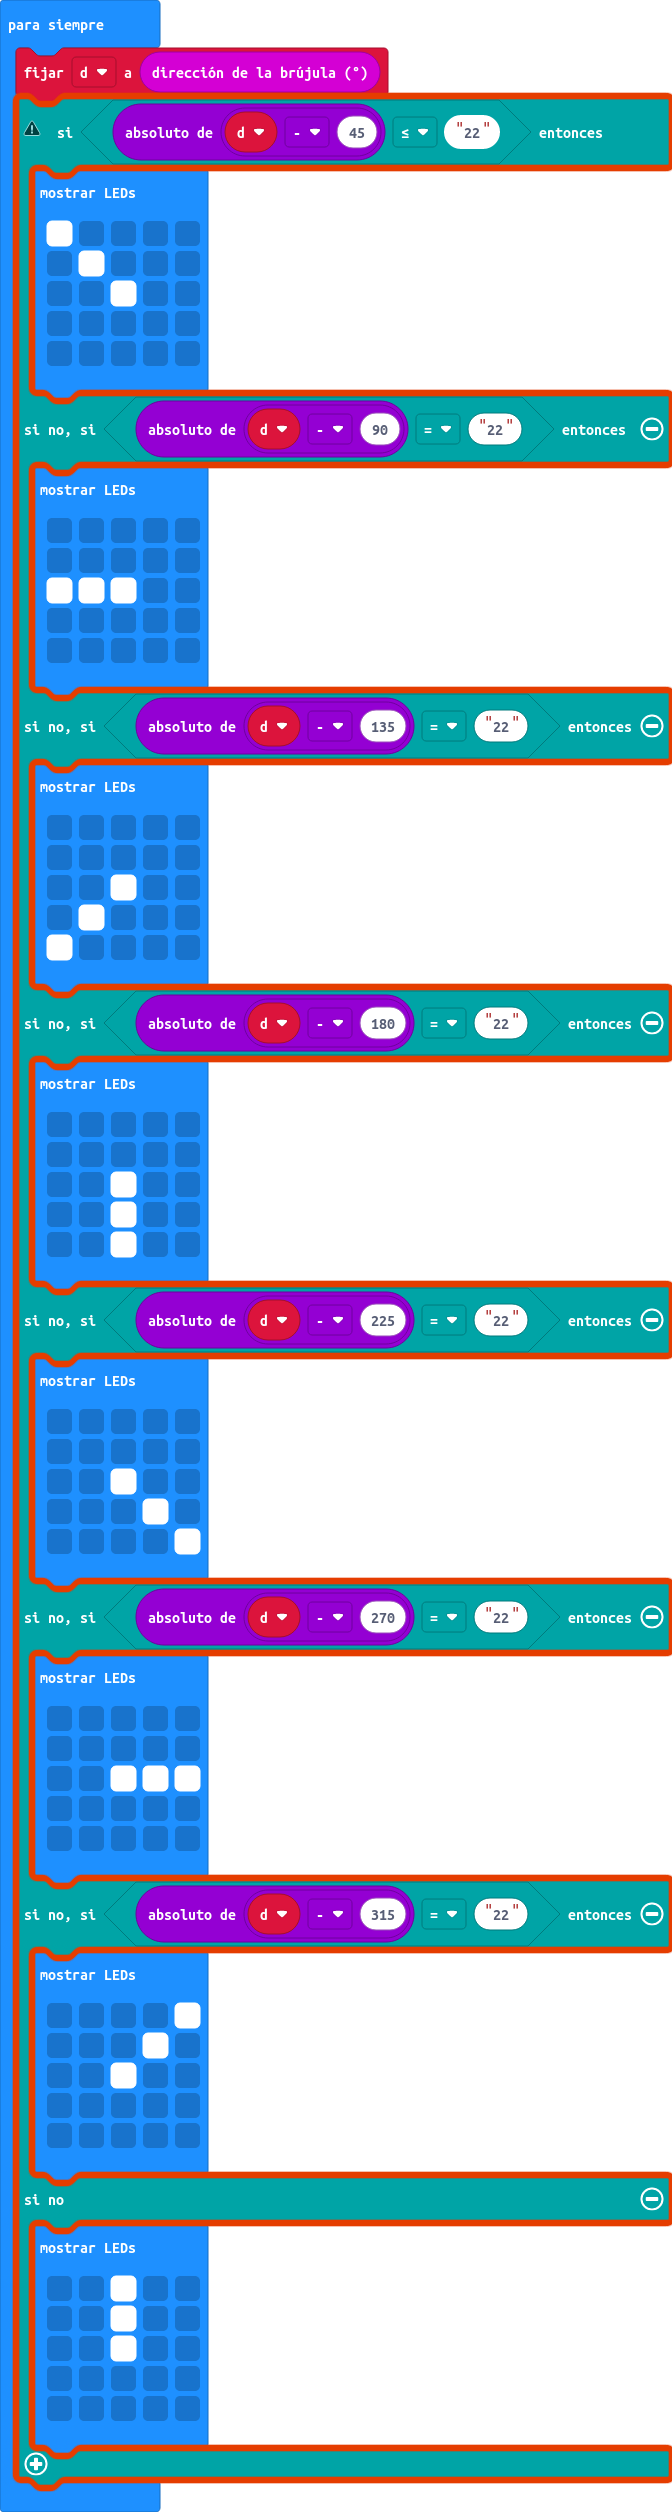
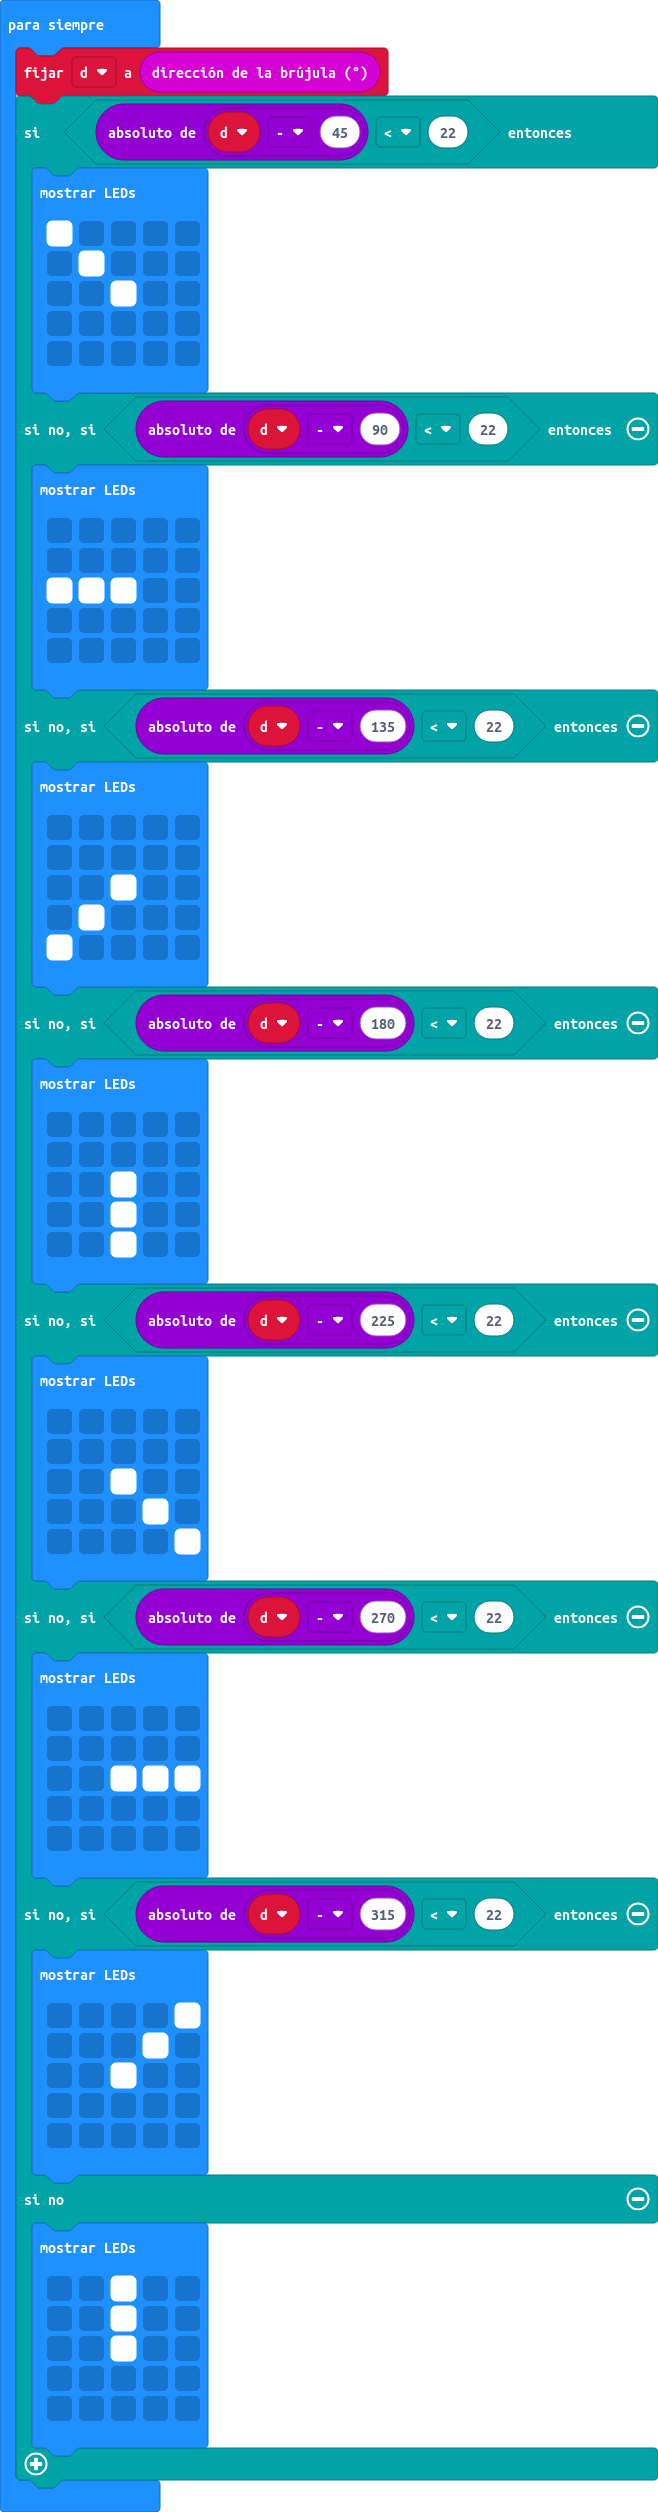
Actualizar main.blocks, main.ts

Changed region(s): [[0.0, 0.0, 1.0, 1.0]]

diff --git a/main.ts b/main.ts
@@ -1,7 +1,7 @@
 let d = 0
 basic.forever(function () {
     d = input.compassHeading()
-    if (Math.abs(d - 45) <= "22") {
+    if (Math.abs(d - 45) < 22) {
         basic.showLeds(`
             # . . . .
             . # . . .
@@ -9,7 +9,7 @@ basic.forever(function () {
             . . . . .
             . . . . .
             `)
-    } else if (Math.abs(d - 90) == "22") {
+    } else if (Math.abs(d - 90) < 22) {
         basic.showLeds(`
             . . . . .
             . . . . .
@@ -17,7 +17,7 @@ basic.forever(function () {
             . . . . .
             . . . . .
             `)
-    } else if (Math.abs(d - 135) == "22") {
+    } else if (Math.abs(d - 135) < 22) {
         basic.showLeds(`
             . . . . .
             . . . . .
@@ -25,7 +25,7 @@ basic.forever(function () {
             . # . . .
             # . . . .
             `)
-    } else if (Math.abs(d - 180) == "22") {
+    } else if (Math.abs(d - 180) < 22) {
         basic.showLeds(`
             . . . . .
             . . . . .
@@ -33,7 +33,7 @@ basic.forever(function () {
             . . # . .
             . . # . .
             `)
-    } else if (Math.abs(d - 225) == "22") {
+    } else if (Math.abs(d - 225) < 22) {
         basic.showLeds(`
             . . . . .
             . . . . .
@@ -41,7 +41,7 @@ basic.forever(function () {
             . . . # .
             . . . . #
             `)
-    } else if (Math.abs(d - 270) == "22") {
+    } else if (Math.abs(d - 270) < 22) {
         basic.showLeds(`
             . . . . .
             . . . . .
@@ -49,7 +49,7 @@ basic.forever(function () {
             . . . . .
             . . . . .
             `)
-    } else if (Math.abs(d - 315) == "22") {
+    } else if (Math.abs(d - 315) < 22) {
         basic.showLeds(`
             . . . . #
             . . . # .
